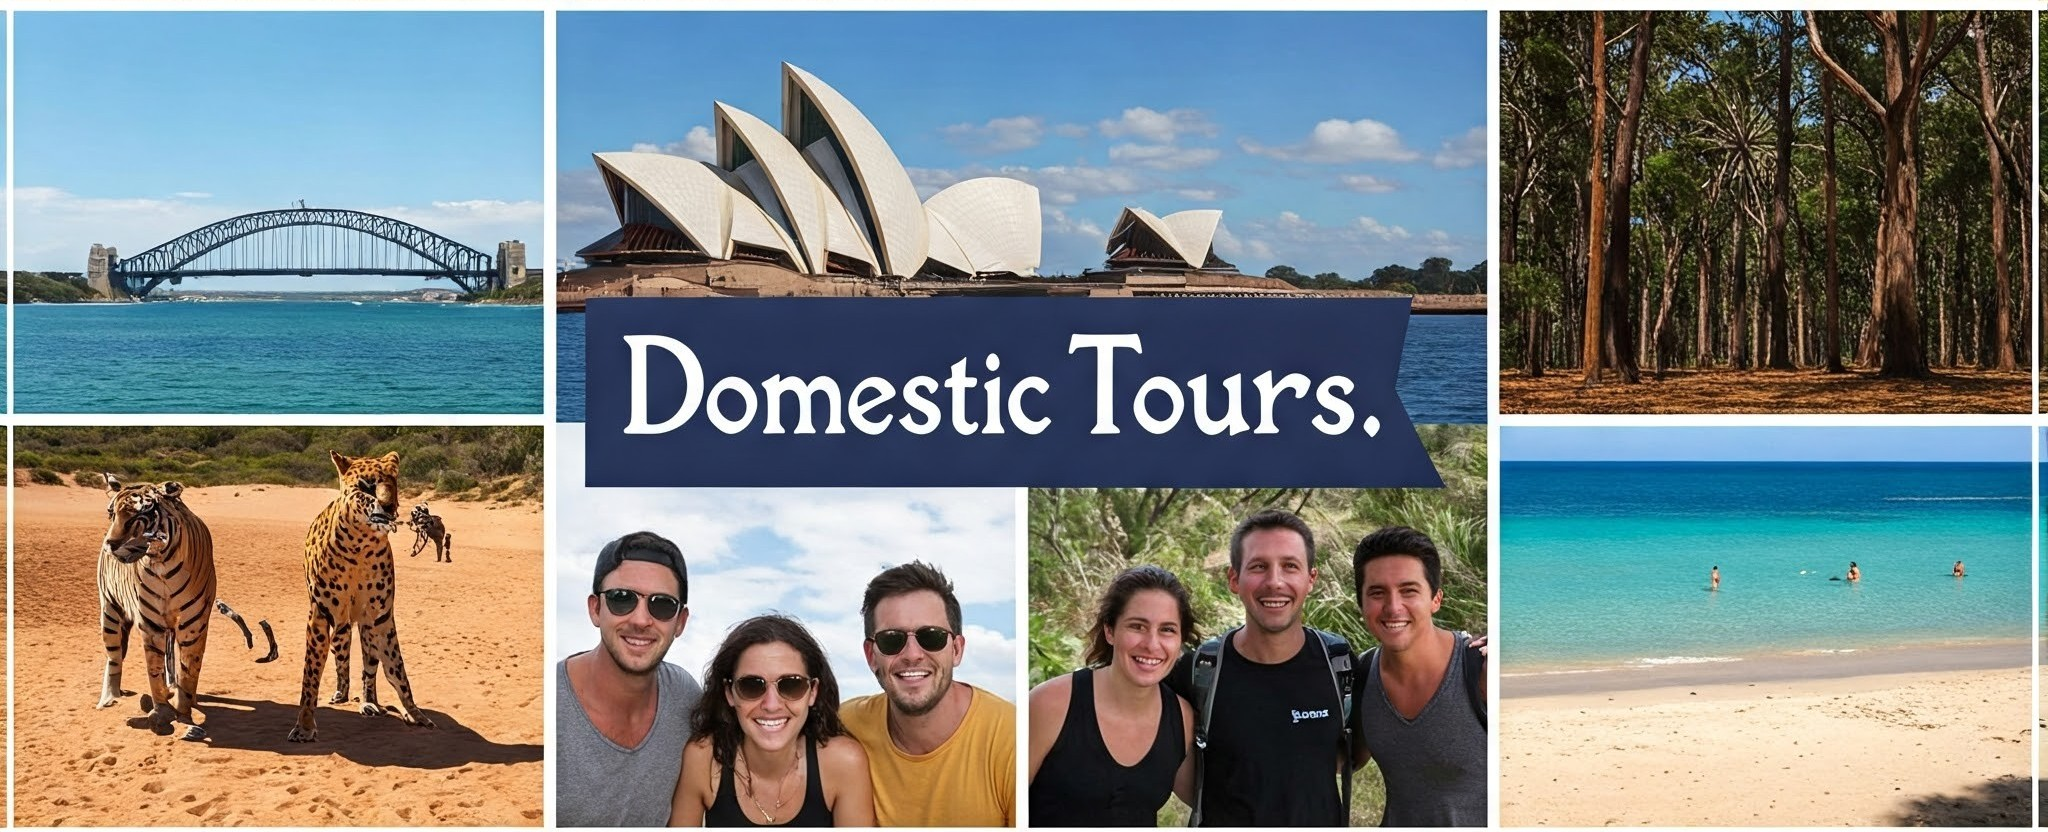
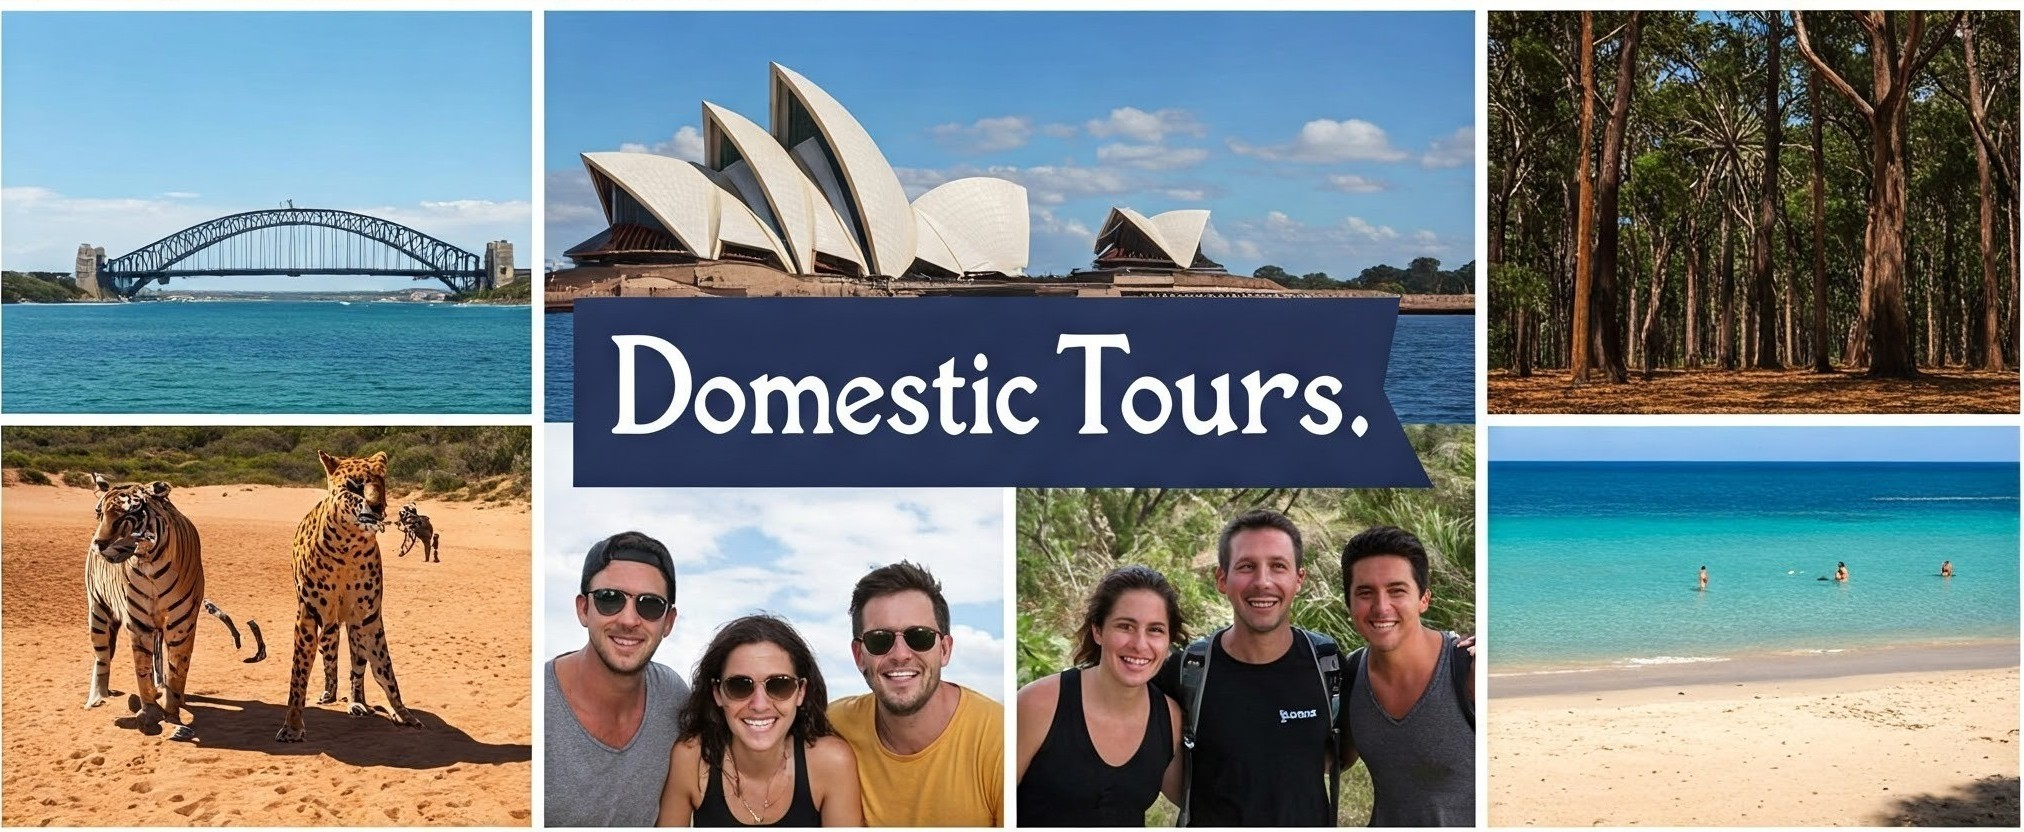
💄 Implement Section 5 UI

diff --git a/index.html b/index.html
@@ -624,5 +624,17 @@
       </div>
     </section>
     <!-- End Section 4 -->
+
+    <!-- Section 5 -->
+    <section class="section-5">
+      <div class="container">
+        <div class="inner-image">
+          <a href="#">
+            <img src="assets/images/banner-4.jpeg" alt="Domestic Tours" />
+          </a>
+        </div>
+      </div>
+    </section>
+    <!-- End Section 5 -->
   </body>
 </html>

diff --git a/assets/css/style.css b/assets/css/style.css
@@ -779,3 +779,19 @@ img {
 /* End Responsive Button Outline */
 
 /* End Button Outline */
+
+/* Section 5 */
+.section-5 {
+  padding-bottom: 60px;
+}
+
+.section-5 .inner-image {
+  border-radius: 10px;
+  overflow: hidden;
+}
+
+.section-5 .inner-image img {
+  width: 100%;
+  height: auto;
+}
+/* End Section 5 */
